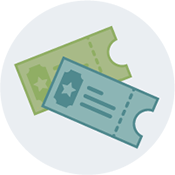
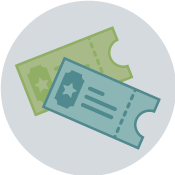
better backgrounds and fixes

diff --git a/digital-media/index.html b/digital-media/index.html
@@ -1,5 +1,6 @@
 <!DOCTYPE html>
-<html lang="en"><!-- InstanceBegin template="/Templates/page.dwt" codeOutsideHTMLIsLocked="false" -->
+<html lang="en">
+<!-- InstanceBegin template="/Templates/page.dwt" codeOutsideHTMLIsLocked="false" -->
 <head>
 <meta charset="utf-8">
 <meta http-equiv="X-UA-Compatible" content="IE=edge">
@@ -107,11 +108,11 @@ e.async=true;var t=document.getElementsByTagName("script")[0];t.parentNode.inser
 .white-circle {
 	border: 10px solid #fff;
 }
-.bottom-bkg {
-	background: #fff url(bkg.gif) center bottom repeat-x;
+.white-top-bkg {
+	background: #fff url(white-top.gif) center center repeat-x;
 }
-.top-bkg {
-	background: #fff url(bkg.gif) center top repeat-x;
+.white-bottom-bkg {
+	background: #fff url(white-bottom.gif) center center repeat-x;
 }
 .gray-row h4.want, .white-row h4.want {
 	padding-top: 0px;
@@ -390,8 +391,10 @@ height="0" width="0" style="display:none;visibility:hidden"></iframe>
   
   <!----################################### -->
   
-  <div class="row bottom-bkg padding-top-30">
-    <div id="e-books"><img src="e-books.png" alt="E-Books" class="white-circle img-circle img-responsive center-block"></div>
+  <div class="row padding-top-30">
+    <div class="white-top-bkg">
+      <div id="e-books"><img src="e-books.png" alt="E-Books" class="gray-circle img-circle img-responsive center-block"></div>
+    </div>
   </div>
   <div class="row bg-gray-5 text-center">
     <h1 class="no-margin-top padding-bottom-15 text-uppercase font-weight-400">E-Books</h1>
@@ -450,8 +453,10 @@ height="0" width="0" style="display:none;visibility:hidden"></iframe>
   
   <!----################################### -->
   
-  <div class="row top-bkg padding-top-15">
-    <div id="audiobooks"><img src="audiobooks.png" alt="Audiobooks" class="white-circle img-circle img-responsive center-block"></div>
+  <div class="row bg-gray-5 padding-top-15">
+    <div class="white-bottom-bkg">
+      <div id="audiobooks"><img src="audiobooks.png" alt="Audiobooks" class="white-circle img-circle img-responsive center-block"></div>
+    </div>
   </div>
   <div class="row text-center">
     <h1 class="no-margin-top padding-bottom-15 text-uppercase font-weight-400">Audiobooks</h1>
@@ -508,8 +513,10 @@ height="0" width="0" style="display:none;visibility:hidden"></iframe>
   
   <!----################################### -->
   
-  <div class="row bottom-bkg padding-top-15">
-    <div id="magazines"><img src="magazines.png" alt="Magazines" class="gray-circle img-circle img-responsive center-block"></div>
+  <div class="row  padding-top-15">
+    <div class="white-top-bkg">
+      <div id="magazines"><img src="magazines.png" alt="Magazines" class="gray-circle img-circle img-responsive center-block"></div>
+    </div>
   </div>
   <div class="row bg-gray-5 text-center">
     <h1 class="no-margin-top padding-bottom-15 text-uppercase font-weight-400">Magazines</h1>
@@ -533,8 +540,10 @@ height="0" width="0" style="display:none;visibility:hidden"></iframe>
   
   <!----################################### -->
   
-  <div class="row top-bkg padding-top-15">
-    <div id="videos"><img src="movies.png" alt="Movies, TV & Kids Videos" class="white-circle img-circle img-responsive center-block"></div>
+  <div class="row bg-gray-5 padding-top-15">
+    <div class="white-bottom-bkg">
+      <div id="videos"><img src="movies.png" alt="Movies, TV & Kids Videos" class="white-circle img-circle img-responsive center-block"></div>
+    </div>
   </div>
   <div class="row text-center">
     <h1 class="no-margin-top padding-bottom-15 text-uppercase font-weight-400">Movies, TV & Kids Videos</h1>
@@ -592,8 +601,10 @@ height="0" width="0" style="display:none;visibility:hidden"></iframe>
   
   <!----################################### -->
   
-  <div class="row bottom-bkg padding-top-15">
-    <div id="music"><img src="music.png" alt="Music" class="gray-circle img-circle img-responsive center-block"></div>
+  <div class="row padding-top-15">
+    <div class="white-top-bkg">
+      <div id="music"><img src="music.png" alt="Music" class="gray-circle img-circle img-responsive center-block"></div>
+    </div>
   </div>
   <div class="row bg-gray-5 text-center">
     <h1 class="no-margin-top padding-bottom-15 text-uppercase font-weight-400">Music</h1>
@@ -751,4 +762,5 @@ height="0" width="0" style="display:none;visibility:hidden"></iframe>
 </script> 
 <!-- End Structured Data -->
 </body>
-<!-- InstanceEnd --></html>
+<!-- InstanceEnd -->
+</html>

diff --git a/dcl-local/index.html b/dcl-local/index.html
@@ -96,11 +96,11 @@ e.async=true;var t=document.getElementsByTagName("script")[0];t.parentNode.inser
 .white-circle {
 	border: 10px solid #fff;
 }
-.bottom-bkg {
-	background: #fff url(bkg.gif) center bottom repeat-x;
+.white-top-bkg {
+	background: #fff url(white-top.gif) center center repeat-x;
 }
-.top-bkg {
-	background: #fff url(bkg.gif) center top repeat-x;
+.white-bottom-bkg {
+	background: #fff url(white-bottom.gif) center center repeat-x;
 }
 .gray-row .gray-aside h4, .white-row .white-aside h4 {
 	font-size: 20px;
@@ -368,8 +368,10 @@ height="0" width="0" style="display:none;visibility:hidden"></iframe>
       <h4 class="roboto text-center margin-lg-100">Show your Douglas County Libraries library card at participating DCL Local merchants to receive special offers of <a href="#food-drink">Food & Drink</a>, <a href="#shopping">Shopping</a> and <a href="#classes-experiences">Classes & Experiences</a>.</h4>
     </div>
   </div>
-  <div class="row bottom-bkg">
-    <div id="food-drink"><img src="food-drink.png" alt="Food & Drink" class="white-circle img-circle img-responsive center-block"></div>
+  <div class="row">
+    <div class="white-top-bkg">
+      <div id="food-drink"><img src="food-drink.png" alt="Food & Drink" class="gray-circle img-circle img-responsive center-block"></div>
+    </div>
   </div>
   <div class="row bg-gray-5 text-center">
     <h1 class="no-margin-top padding-bottom-15 text-uppercase font-weight-400">Food & Drink</h1>
@@ -498,8 +500,10 @@ height="0" width="0" style="display:none;visibility:hidden"></iframe>
   
   <!----################################### -->
   
-  <div class="row top-bkg padding-top-15">
-    <div id="shopping"><img src="shopping.png" alt="Shopping" class="white-circle img-circle img-responsive center-block"></div>
+  <div class="row bg-gray-5 padding-top-15">
+    <div class="white-bottom-bkg">
+      <div id="shopping"><img src="shopping.png" alt="Shopping" class="white-circle img-circle img-responsive center-block"></div>
+    </div>
   </div>
   <div class="row text-center">
     <h1 class="no-margin-top padding-bottom-15 text-uppercase font-weight-400">Shopping</h1>
@@ -584,8 +588,10 @@ height="0" width="0" style="display:none;visibility:hidden"></iframe>
   
   <!----################################### -->
   
-  <div class="row bottom-bkg padding-top-15">
-    <div id="classes-experiences"><img src="classes-experiences.png" alt="Classes & Experiences" class="white-circle img-circle img-responsive center-block"></div>
+  <div class="row padding-top-15">
+    <div class="white-top-bkg">
+      <div id="classes-experiences"><img src="classes-experiences.png" alt="Classes & Experiences" class="gray-circle img-circle img-responsive center-block"></div>
+    </div>
   </div>
   <div class="row bg-gray-5 text-center">
     <h1 class="no-margin-top padding-bottom-15 text-uppercase font-weight-400">Classes & Experiences</h1>
